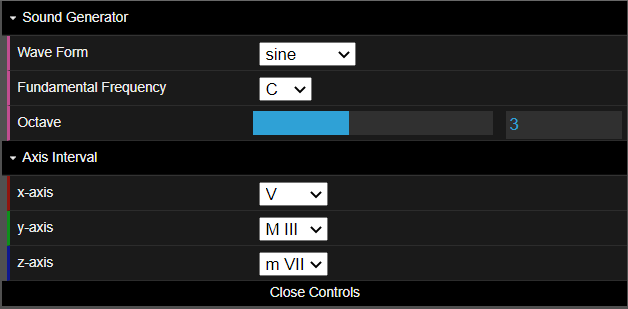
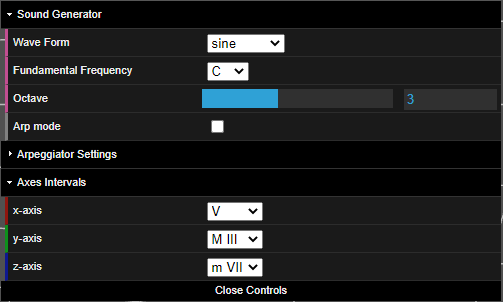
fixed arpeggiator, updated documentation

Changed region(s): [[0.0, 0.0, 1.0, 1.0], [0.8052, 0.298, 0.835, 0.3576], [0.8052, 0.3874, 0.835, 0.4172]]

diff --git a/scripts/vr-mony.js b/scripts/vr-mony.js
@@ -381,7 +381,7 @@ function audioRender(object){
 
 		//ARPEGGIATOR ON
 		if(switch_arp){
-			object.children[lastIndex].gain.gain.setTargetAtTime(object.userData[0].MODEL*normAmp*8, listener.context.currentTime + 0.1, 0.5);
+			object.children[lastIndex].gain.gain.setTargetAtTime(object.userData[0].MODEL*normAmp*8, listener.context.currentTime + 0.3, 0.5);
 
 			function arpeggiator(arp_index){
 				let ms = 1000*60/bpm;	// from bpm to milliseconds
@@ -468,7 +468,7 @@ function initGUI(){
 		'Wave Form': 'sine',
 		'Fundamental Frequency': 'C',
 		'Octave': 3,
-		'Arp mode ON': false,
+		'Arp mode': false,
 		'Pattern': 'Ascending',
 		'BPM': 200,
 		'Steps': 6,
@@ -481,7 +481,7 @@ function initGUI(){
     folder1.add( settings, 'Wave Form', ['sine', 'square', 'sawtooth', 'triangle']).onChange(setWave);
 	folder1.add( settings, 'Fundamental Frequency', ['C', 'C#', 'D', 'D#', 'E', 'F', 'F#', 'G', 'G#', 'A', 'A#', 'B'] ).onChange(setf0);
 	folder1.add( settings, 'Octave', 1, 6, 1 ).onChange(setOctave);
-	folder1.add( settings, 'Arp mode ON' ).onChange((val) => {setArpeggiator(val, folder2)});
+	folder1.add( settings, 'Arp mode' ).onChange((val) => {setArpeggiator(val, folder2)});
 	folder2.add( settings, 'Pattern', ['Ascending', 'Descending', 'Ascending + Descending', 'Random'] ).onChange((val) => {setArpPattern(val)});
 	folder2.add( settings, 'BPM', 60, 400, 5 ).onChange((val) => {setArpBPM(val)});
 	folder2.add( settings, 'Steps', 2, 6, 1).onChange((val) => {setArpSteps(val)});
@@ -518,11 +518,11 @@ function setOctave(octave){
 }
 
 function setArpeggiator(val, folder2){
-	if (val==0){
+	if (val==false){
 		switch_arp = 0;
 		folder2.close();
 	}
-	if (val==1){
+	if (val==true){
 		switch_arp = 1;
 		folder2.open();
 	}

diff --git a/README.md b/README.md
@@ -1,4 +1,4 @@
-# **VR-mony**
+# <span style="color: #c24e91"> **VR-mony** </span>
 ### A platonic solid love experience.
 <br>
 <p align="center"> <img src="./images/doc/cuball.png" width="50%"></p>
@@ -11,6 +11,7 @@
         - [The Spheres](#the-spheres)
         - [Reference System](#reference-system)
         - [User Interface](#user-interface)
+        - [Arpeggiator MODE](#arpeggiator-mode)
         - [Multi-user Interaction](#multi-user-interaction)
 - [Music Theory](#music-theory)
     - [The Tonnetz](#the-tonnetz)
@@ -20,7 +21,7 @@
 - [Useful Links](#useful-links)
 - [Group Members](#group-members)
 
-# **Introduction**
+# <span style="color: #c24e91"> **Introduction** </span>
 This project has been developed for the course "**Advanced Coding Tools and Methodologies**" of the MSc in *Music and Acoustic Engineering* of the *Politecnico di Milano*.
 
 ***VR-mony*** is a minimal abstract space in which the user can interact with spherical synthetic sound sources.
@@ -28,7 +29,7 @@ This project has been developed for the course "**Advanced Coding Tools and Meth
 It is a **VR web application** with **positional audio** and **multiuser option** accessible both from VR headsets and from PCs.
 <br><br>
 
-# **Navigating in VR-mony**
+# <span style="color: #c24e91"> **Navigating in VR-mony** </span>
 The app can be run either by downloading the whole repository and running it with a live server or by clicking on the following link.
 
 <a href="https://fradelgs.github.io/VRmony">**Open VR-mony**</a>
@@ -38,7 +39,7 @@ Remember to switch on the audio of your device and to wear your headphones.
 The best way to appreciate the audio-video spaciality of VR-mony is to access the link from the browser of a 6DoF VR headset.
 <br><br>
 
-## **The Book**
+## <span style="color: #c24e91"> **The Book** </span>
 The homepage is just a joke.
 If the user knows where to touch, the app will ask him/her/them to play.
 
@@ -49,13 +50,13 @@ There are just two rules:
 <p align="center"> <img src="./images/doc/homepage.png" width="70%"></p>
 <br><br>
 
-## **The Room**
+## <span style="color: #c24e91"> **The Room** </span>
 The user is suddenly teleported into a minimalistic tridimensional room with just a bunch of organized spheres, three lines and a user interface.
 
 <p align="center"> <img src="./images/doc/vrmony_app.png" width="70%"></p>
 <br><br>
 
-### **Controls**
+### <span style="color: #c24e91"> **Controls** </span>
 **PC** users can move into the space, activate sounds and modify them with a mouse:
 
 PAN/TILT : Hold the left mouse button to rotate in 3D.
@@ -83,7 +84,7 @@ PLAY : Left click on a sphere to activate or deactivate its sound.
 ☰ Use the hamburger button on the left controller to exit.
 <br><br>
 
-### **The Spheres**
+### <span style="color: #c24e91"> **The Spheres** </span>
 A cubic lattice of 3x3x3 spheres is the core of ***VR-mony***.
 
 The glowing sphere at the center of the cube plays the fundamental note while the spheres around it have different notes depending on the direction they are located with respect to the fundamental one.
@@ -94,13 +95,13 @@ Default settings generate a cube with a $C_3$ on the fundamental sphere and then
 - z axis: minor Seventh
 <br><br>
 
-### **Reference System**
+### <span style="color: #c24e91"> **Reference System** </span>
 Three lines with different colours constitute a reference system with the origin in the center of the fundamental note sphere.
 <br>Each line is thicker on the side where the interval goes toward higher frequencies and it is thinner going towards lower frequencies.
 <br>Line colours match the colours in the GUI.
 <br><br>
 
-### **User Interface**
+### <span style="color: #c24e91"> **User Interface** </span>
 A simple user interface allows the user to control the sound generator and the interval on each axis.
 <p align="center"> <img src="./images/doc/gui.png" width="50%"></p>
 
@@ -141,13 +142,37 @@ A simple user interface allows the user to control the sound generator and the i
 | min II | Maj II | min III | Maj III | IV | min V | V | min VI | Maj VI | min VII | Maj VII | VIII |
 | ------ |:------:|:-------:|:-------:|:--:|:-----:|:-:|:------:|:------:|:-------:|:-------:| ----:|
 </p>
+
 <br><br>
 
-### **Multi-user Interaction**
-Thanks to an external database on [Firebase](https://firebase.google.com/) it is possible for 2 or more users to access VR-mony at the same time and see and hear changes made by other players in real-time.
+### <span style="color: #c24e91"> **Arpeggiator MODE** </span>
+The "Arp mode" switch activates the arpeggiator and opens the menu folder containing the related settings.
+<p align="center"> <img src="./images/doc/gui_arp.png" width="50%"></p>
+
+When the arpeggiator is ON, the mouse click on each sphere starts a looping arpeggio using the note of the clicked sphere as the tonic and it is possible to customize on the go the sequence of notes played and its speed with the following options:
 <br><br>
 
-# **Music Theory**
+- **PATTERN:** selects the way the arpeggiator picks the notes into an array
+<p align="center">
+
+| Ascending  | Descending | Ascending+Descending | Random |
+|:---------- | ----------:|:--------------------:| ------:|
+
+</p>
+<br>
+
+- **BPM:** allows to set the BPM of the arpeggiator from 60 to 400 bpm.
+<br>
+
+- **STEPS:** allows to set the number of steps of the arpeggio from 2 to 6.
+<br><br>
+
+## <span style="color: #c24e91"> **Multi-user Interaction**</span>
+
+Thanks to an external database on [Firebase](https://firebase.google.com/) it is possible for 2 or more users to access VR-mony at the same time and see and hear the spheres activated by other players in real-time.
+<br><br>
+
+# <span style="color: #c24e91"> **Music Theory** </span>
 An _interval_ is a difference in pitch between two sounds. It may be described as _horizontal_ (or _melodic_) if it refers to successively sounding tones, such as two adjacent pitches in a melody, and _vertical_ (or _harmonic_) if it pertains to simultaneously sounding tones, such as in a chord.
 
 In Western music, intervals are most commonly differences between notes of a diatonic scale and the most common naming scheme for intervals describes two properties of the interval: the quality (perfect, major, minor, augmented, diminished) and number (unison, second, third, etc.).
@@ -157,7 +182,7 @@ The size of an interval between two notes may be measured by the ratio of their 
 Most commonly, however, musical instruments are nowadays tuned using a different tuning system, called _**12-tone equal temperament**_. As a consequence, the size of most equal-tempered intervals cannot be expressed by small-integer ratios, although it is very close to the size of the corresponding just intervals. For instance, an equal-tempered fifth has a frequency ratio of $2^{7/12}:1$, approximately equal to $1.498:1$, or $2.997:2$ (very close to $3:2$).
 <br><br>
 
-## **The Tonnetz**
+## <span style="color: #c24e91"> **The Tonnetz** </span>
 In musical tuning and harmony, the _**Tonnetz**_ (German for '_tone network_') is a conceptual lattice diagram representing tonal space first described by _Leonhard Euler_ in 1739. This bidimensional representation is useful to illustrate and analyze chords and their relationships.
 Various visual representations of the Tonnetz can be used to show traditional harmonic relationships in European classical music.
 
@@ -167,7 +192,7 @@ Various visual representations of the Tonnetz can be used to show traditional ha
 </figure>
 <br><br>
 
-## **Vogel's Tonnetz**
+## <span style="color: #c24e91"> **Vogel's Tonnetz** </span>
 _**Vogel's Tonnetz**_ is a graphical and mathematical representation of the scale range of _just intonation_, introduced by German music theorist _Martin Vogel_ 1976 in his book _Die Lehre von den Tonbeziehungen_ (English: _On the Relations of Tone_, 1993). The graphical representation is based on _Euler's Tonnetz_, adding a **third dimension** for just sevenths to the two dimensions for just fifths and just thirds.
 The four-dimensional mathematical representation including **octaves** allows the evaluation of the congruency of harmonics of chords depending on the tonal material. It can thus also serve to determine the optimal tonal material for a certain chord.
 
@@ -177,7 +202,7 @@ The four-dimensional mathematical representation including **octaves** allows th
 </figure>
 <br><br>
 
-# **Implementation**
+# <span style="color: #c24e91"> **Implementation** </span>
 **VR-mony** is developed with _HTML_, _CSS_ and _Javascript_ languages taking advantage of the following libraries and Application Programming Interfaces (API).
 
 - [Web Audio API](https://www.w3.org/TR/webaudio/) is a high-level Web API for processing and synthesizing audio in web applications.
@@ -187,13 +212,13 @@ The four-dimensional mathematical representation including **octaves** allows th
 - [WebXR API](https://www.w3.org/TR/webxr/) provides access to input (pose information from headset and controllers) and output (hardware display) capabilities commonly associated with Virtual Reality (VR) and Augmented Reality (AR) devices. It allows you develop and host VR and AR experiences on the web.
 <br><br>
 
-# **Demo Video**
+# <span style="color: #c24e91"> **Demo Video** </span>
 <a align="center" href="https://www.youtube.com/watch?v=q-DwMH9EGBc" target="_blank">
- <img src="./images/doc/ant_video.png" alt="VR-mony demo" width="860" height="540" />
+ <img src="./images/doc/ant_video.png" alt="VR-mony demo" />
 </a>
 <br><br>
 
-# Useful Links
+# <span style="color: #c24e91"> Useful Links </span>
 - [THREE.js](https://threejs.org/)
 - [WebXR API](https://www.w3.org/TR/webxr/)
 - [Web Audio API](https://www.w3.org/TR/webaudio/)
@@ -205,6 +230,6 @@ The four-dimensional mathematical representation including **octaves** allows th
 - [Vogel's Tonnetz](https://en.wikipedia.org/wiki/Vogel%27s_Tonnetz)
 <br><br>
 
-# *Group members*
+# <span style="color: #c24e91"> *Group members* </span>
 - Francesca Del Gaudio (francesca.delgaudio@mail.polimi.it)
 - Valerio Maiolo (valerio.maiolo@mail.polimi.it) 
